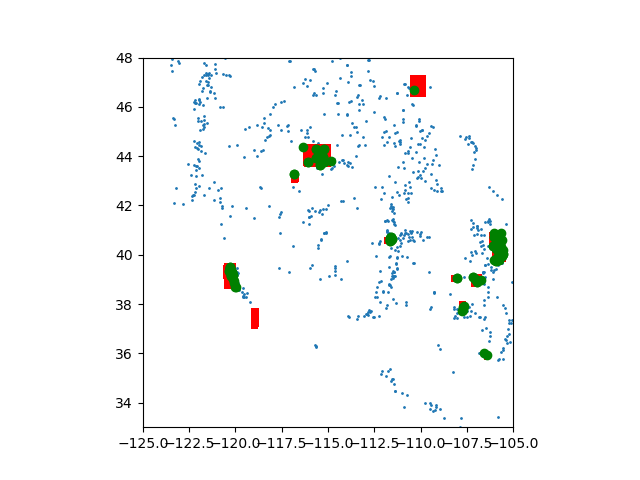
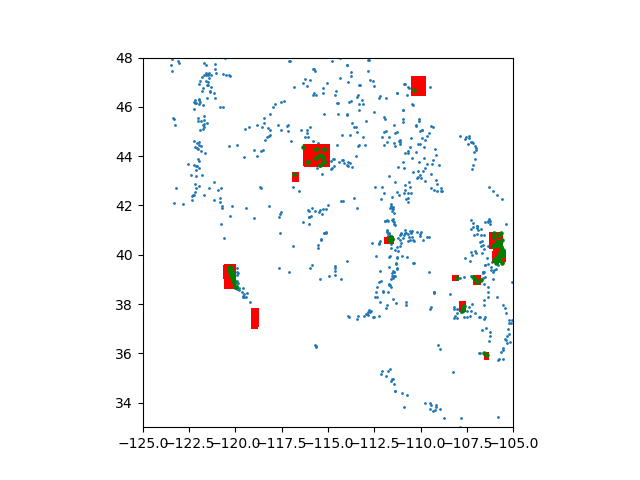
working on vectorizing

diff --git a/src/data_acquisition/snotel_ex.py b/src/data_acquisition/snotel_ex.py
@@ -4,21 +4,47 @@ import numpy as np
 import pandas as pd
 import geopandas as gpd
 from shapely import wkb, wkt
+from shapely.geometry import box, Polygon
+
+import rioxarray as rxa
 
 import matplotlib.pyplot as plt
 
 from datetime import datetime
 
-from metloom.pointdata import SnotelPointData
-from metloom.variables import SnotelVariables
+from metloom.pointdata import SnotelPointData, CDECPointData
+from metloom.variables import SnotelVariables, CdecStationVariables
 
 fig_dir = Path('/bsuhome/zacharykeskinen/uavsar-coherence/figures/snotels')
 
-bounds_fp = Path('/bsuhome/zacharykeskinen/uavsar-coherence/data/uavsar-bounds/snowex-uavsar-bounds-v2.shp')
-bounds = gpd.read_file(bounds_fp)
-_drop_z = lambda geom: wkb.loads(wkb.dumps(geom, output_dimension=2))
-bounds.geometry = bounds.geometry.transform(_drop_z)
+uavsar_dir = Path('/bsuhome/zacharykeskinen/scratch/coherence/uavsar')
 
+uavsars = list(uavsar_dir.glob('*'))
+uavsars = [u for u in uavsars if u != 'tmp']
+uavsars = {u: list(u.glob('*.cor.grd.tiff'))[0] for u in uavsars if len(list(u.glob('*.cor.grd.tiff'))) > 0}
+for u, v in uavsars.items():
+    print(rxa.open_rasterio(v))
+# uavsars = {'_'.join(fp.stem.split('_')[:2]):rxa.open_rasterio(v) for fp, v in uavsars.items()}
+# bounds = gpd.GeoDataFrame(uavsars.values(), index = uavsars.keys(), columns = ['geometry'])
+# bounds = bounds.set_crs('EPSG:4326')
+# print(bounds)
+
+# bounds_fp = Path('/bsuhome/zacharykeskinen/uavsar-coherence/data/uavsar-bounds/snowex-uavsar-bounds-v2.shp')
+# bounds = gpd.read_file(bounds_fp)
+# _drop_z = lambda geom: wkb.loads(wkb.dumps(geom, output_dimension=2))
+# bounds.geometry = bounds.geometry.transform(_drop_z)
+
+# https://www.nrcs.usda.gov/wps/portal/wcc/home/quicklinks/stateSnowPrograms#version=167&\
+# elements=W,D&networks=!SCAN,SNTLT,OTHER,SNOW&states=!&counties=!&hucs=&minElevation=&\
+# maxElevation=&elementSelectType=all&activeOnly=true&activeForecastPointsOnly=false&hucLabels=\
+# false&hucIdLabels=false&hucParameterLabels=true&stationLabels=&overlays=&hucOverlays=2&basinOpacity=\
+# 75&basinNoDataOpacity=25&basemapOpacity=100&maskOpacity=0&mode=stations&openSections=dataElement,\
+# parameter,date,basin,options,elements,location,networks,stationList&controlsOpen=true&popup=&popupMulti=&\
+# popupBasin=&base=esriNgwm&displayType=inventory&basinType=6&dataElement=WTEQ&depth=-8&parameter=PCTMED&\
+# frequency=DAILY&duration=I&customDuration=&dayPart=E&year=2024&month=1&day=25&monthPart=E&forecastPubMonth=1&\
+# forecastPubDay=1&forecastExceedance=50&useMixedPast=true&seqColor=1&divColor=7&scaleType=D&scaleMin=&scaleMax=&\
+# referencePeriodType=POR&referenceBegin=1991&referenceEnd=2020&minimumYears=20&hucAssociations=true&lat=40.00&lon=-99.00&zoom=4.0
+"""
 snotels = pd.read_csv('/bsuhome/zacharykeskinen/uavsar-coherence/data/snotel/snotel-list.csv')
 snotels = gpd.GeoDataFrame(snotels, geometry=gpd.points_from_xy(snotels.Longitude, snotels.Latitude), crs='epsg:4326')
 
@@ -27,9 +53,26 @@ snotels.plot(ax = ax, markersize = 1)
 bounds.plot(ax = ax, color = 'red', zorder = 1e3)
 
 intersect = snotels.sjoin(bounds, how = 'inner')
-intersect.plot(ax = ax, color = 'green', zorder = 1e4)
-print(intersect)
+intersect = intersect.set_crs('EPSG:4326')
+
+cdec = False
+if cdec:
+    vrs = [
+        CdecStationVariables.SWE,
+        CdecStationVariables.SNOWDEPTH,
+        CdecStationVariables.TEMPAVG
+    ]
+    points = CDECPointData.points_from_geometry(bounds, vrs, snow_courses=False)
+    df = points.to_dataframe()
+    df.geometry = df.geometry.transform(_drop_z)
+    df = df.set_crs('EPSG:4326')
+    print(df)
+
+    intersect = gpd.GeoDataFrame(pd.concat([df, intersect], ignore_index = True))
+
+intersect.plot(ax = ax, color = 'green', zorder = 1e4, markersize = 5)
 
 ax.set_xlim(-125, -105)
 ax.set_ylim(33, 48)
 plt.savefig(fig_dir.joinpath('snotel_uavsar.png'))
+"""
